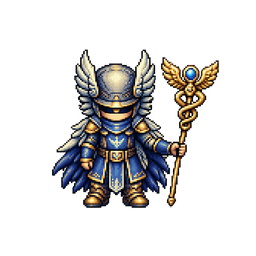
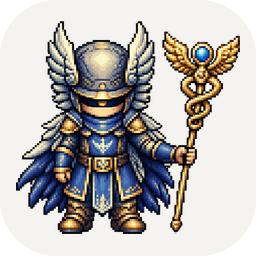
feat: 双桌面入口（网页 + 内嵌）+ 图标重做 + 内嵌登录跳转修复
按用户要求，参考 fnos-apps 的做法同时提供两个入口。

### 图标：之前「太小」的真正原因是留白和对比度
原图 1254x1254，但内容边界只有 817x776 —— 四周留白约 40%，
缩到 64px 时实际图形只剩 ~42px。而且 Hermes 标志是深色线稿 + 透明底，
直接放在深色 fnOS 桌面上几乎看不见。

重做方式：
* 裁到内容边界（817x776）
* 放到浅色圆角底（#F5F3EF，圆角 22%）的方形画布上
* 留 6% 内边距，内容占比从 42% 提升到 86%
* 生成 64 / 256 / 512 三个尺寸（fnOS 用 {0} 占位替换）

### 双入口
* hermes-desktop.Application —— type=url, port=9120, url=/
  点图标在浏览器打开，直连 Hermes 本体
* hermes-desktop.Embedded —— type=iframe + gatewayPrefix + gatewaySocket
  在飞牛桌面窗口内打开，经统一网关（与桌面同源，Cookie 可携带）

manifest 恢复 micro_app="true"（内嵌走网关的前提），cmd/main 恢复启动
网关适配层（提供 app.sock）。

### 内嵌「登录后跳飞牛桌面」的修复
Hermes 登录页是原生 <form method="POST" action="/auth/password-login">。
原生提交后服务端 302 到 "/"，浏览器在 iframe 里把 "/" 解析成 fnOS 网关
根路径 —— 于是跳到飞牛桌面。浏览器级 302 跳转 JS 拦不住。

修法：在注入的前缀桥接脚本里接管 submit 事件，把原生提交改成 fetch，
成功后由我们 location.replace(prefix + "/")，跳回应用首页。
桥接原本已 hook fetch/XHR/WebSocket/EventSource/location.href，
唯独缺 form 提交这一环。

diff --git a/packaging/fpk/cmd/fnos_bridge.py b/packaging/fpk/cmd/fnos_bridge.py
@@ -224,6 +224,46 @@ BRIDGE_JS = r"""
     }
   } catch (_) {}
 })();
+
+  // ── 表单提交：原生 POST 改成 fetch ────────────────────────────────
+  // Hermes 登录页是 <form method="POST" action="/auth/password-login">。
+  // 原生提交后服务端 302 到 "/"，浏览器在 iframe 里把 "/" 解析成 fnOS
+  // 网关根路径 —— 表现就是「登录成功后跳到飞牛桌面」。
+  // 浏览器级 302 跳转 JS 拦不住，所以把提交本身改成 fetch，
+  // 由我们决定跳回哪里。
+  function isAppTarget(action) {
+    try {
+      var u = new URL(action, location.origin);
+      if (u.origin !== location.origin) return false;
+      var p = u.pathname;
+      return p === "/" || isAppPath(p) || p.indexOf(prefix) === 0;
+    } catch (_) {
+      return false;
+    }
+  }
+
+  document.addEventListener("submit", function (ev) {
+    var f = ev.target;
+    if (!f || String(f.tagName).toUpperCase() !== "FORM") return;
+    var action = f.getAttribute("action") || location.pathname;
+    if (!isAppTarget(action)) return;
+
+    ev.preventDefault();
+    ev.stopPropagation();
+
+    var method = String(f.getAttribute("method") || "GET").toUpperCase();
+    var mapped = mapUrl(action);
+    var opts = { method: method, credentials: "same-origin" };
+    if (method === "POST") opts.body = new FormData(f);
+
+    fetch(mapped === null || mapped === undefined ? action : mapped, opts)
+      .then(function (r) {
+        if (r.ok) location.replace(prefix + "/");
+        else location.reload();
+      })
+      .catch(function () { location.reload(); });
+  }, true);
+
 """
 
 
